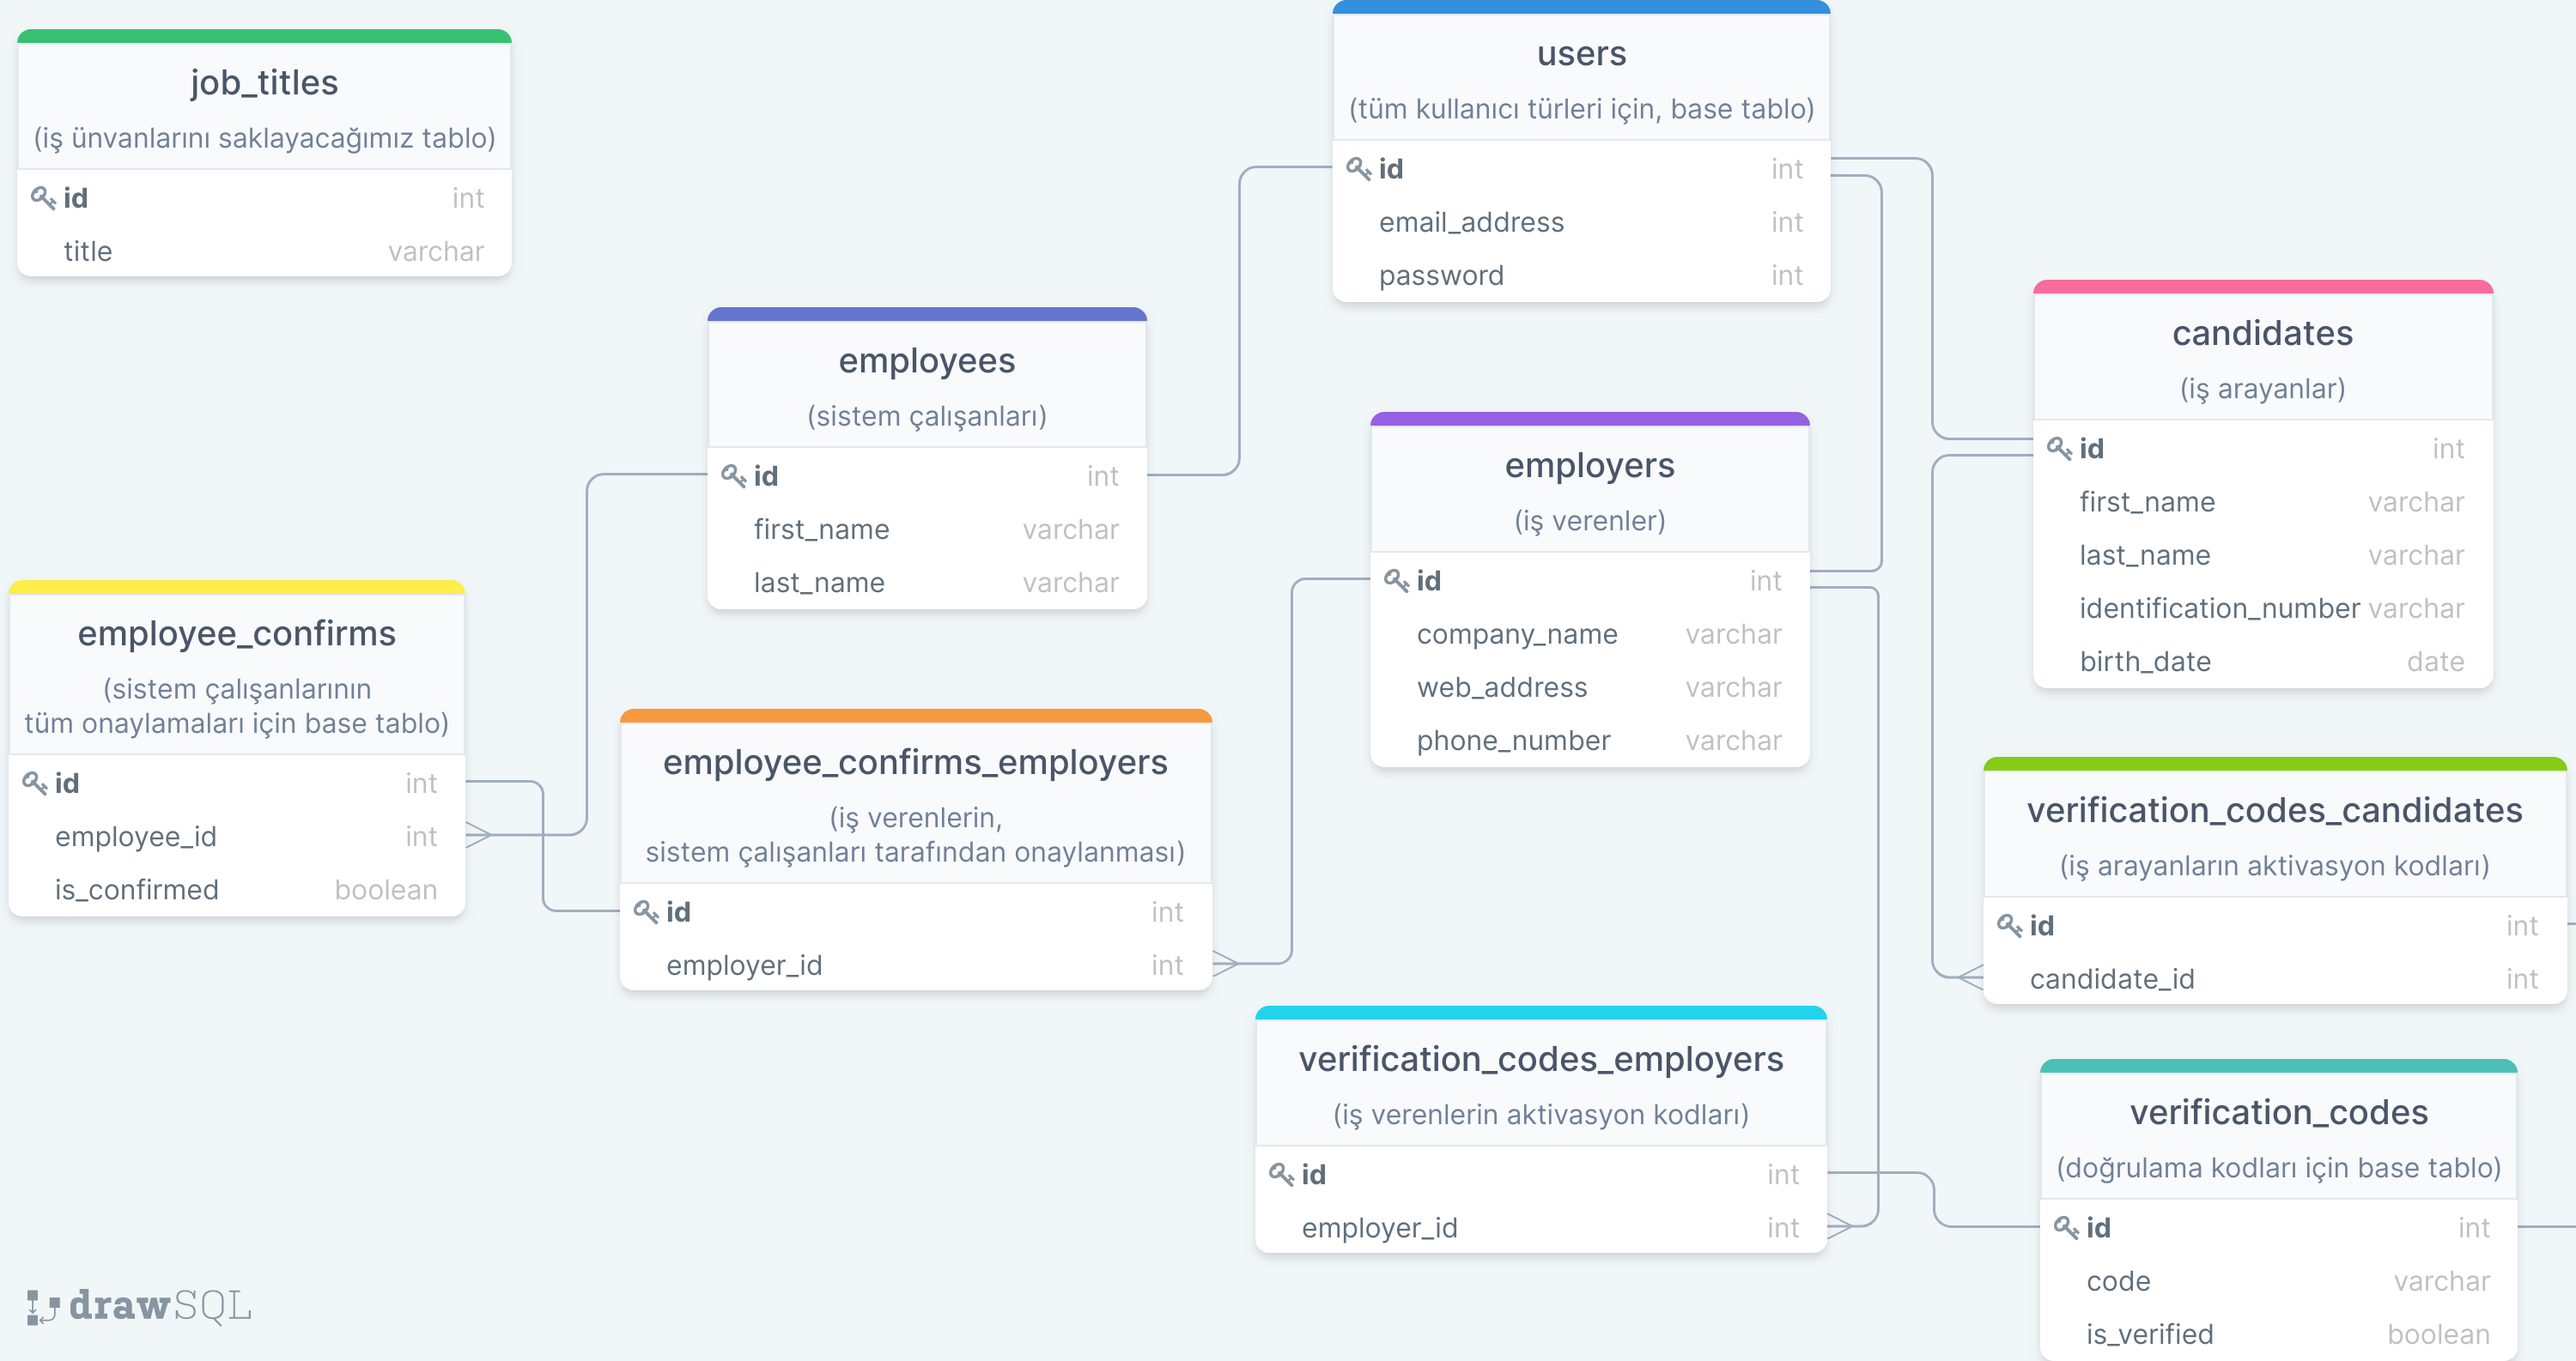
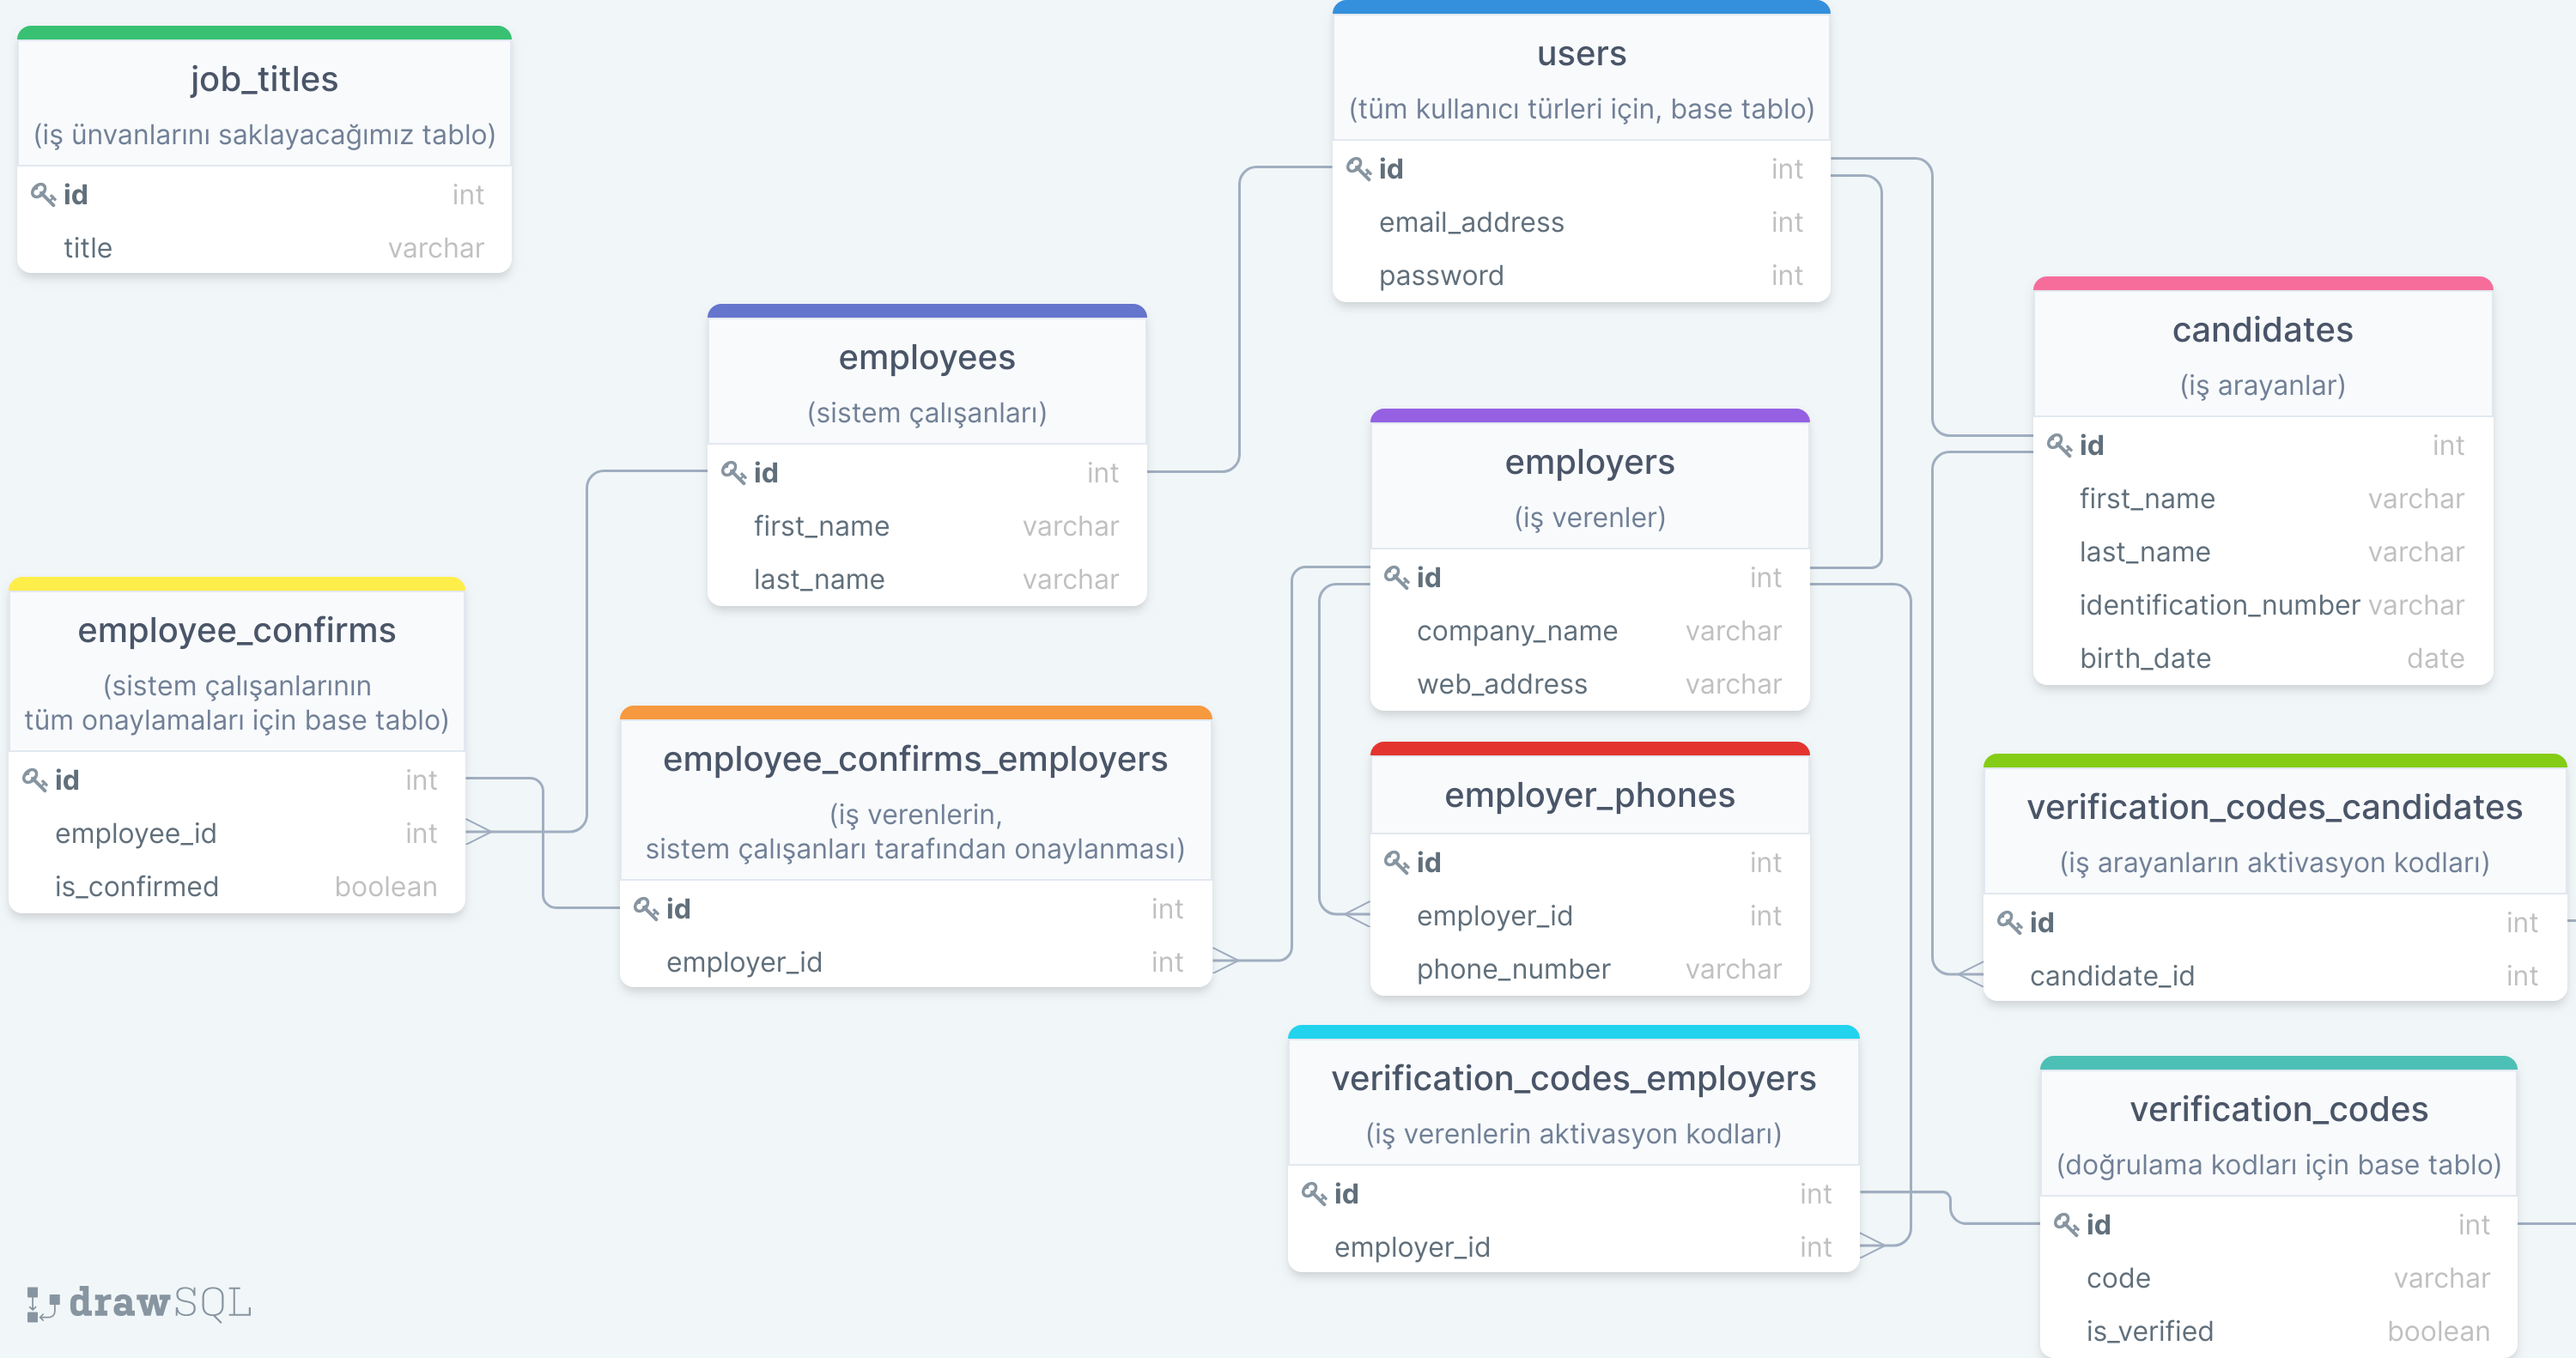
new
new

diff --git a/README.md b/README.md
@@ -2,6 +2,29 @@
 <a href="https://github.com/Sina-Afshar/HRMS.PostgreSQL"> <img width=17 src="https://r.resimlink.com/Yosz.png"> PostgreSQL - Database</a>
 ### <a href="database.sql">Click</a> for script codes.
 * * *
+
+### Tablo yapısı:
+- <b>users</b> (<i>tüm kullanıcı türlerini saklayacağımız ana tablomuz</i>)
+	- <b>candidates</b> (<i>iş arayan kullanıcılar</i>)
+	- <b>employees</b>  (<i>sistem çalışanları</i>) 
+	- <b>employers</b> (<i>iş veren kullanıcılar</i>)
+	  - <b>employer_phones</b> (<i>iş verenlerin birden fazla telefonu olabileceği için ek bir tablo</i>)   
+- <b>verification_codes</b> (<i>doğrulama sistemlerimiz için doğrulama kodlarını tutacağımız ana tablomuz</i>)
+	- <b>verification_codes_candidates</b>  (<i>iş arayan kullanıcılar için kod ile doğrulama yapmak için tablomuz</i>)
+	- <b>verification_codes_employers</b> (<i>iş veren kullanıcılar için kod ile doğrulama yapmak için tablomuz</i>)
+- <b>employee_confirms</b> (<i>sistem çalışanlarının onaylama yapabilmesi için ana tablomuz</i>)
+	- <b>employee_confirms_employers</b>  (<i>sistem çalışanlarının, iş verenlerini onaylayacağı tablo.</i>)
+- <b>job_titles</b> (<i>iş pozisyonlarının isimlerini tutacağımız tablomuz.</i>)
+
+### Doğrulamalar:
+- users (<i>email_address ve password  unique constraint ile zorunlu hale getirildi.</i>)
+- candidates (<i>first_name, last_name, identification_number ve birth_date unique constraint ile zorunlu hale getirildi.</i>)
+- employers (<i>company_name, web_address ve phone_number  unique constraint ile  ile zorunlu hale getirildi.</i>)
+
+### Kurallar:
+- employers (<i>web_address alanının users tablosunda ki email_address ile uyumlu olup olmadığı check constraint ile kontrol edilir hale getirildi.</i>)
+
+
 <!--
 ### Relation descriptions : 
   - <b>users</b> <i>(all types of users.)</i>
